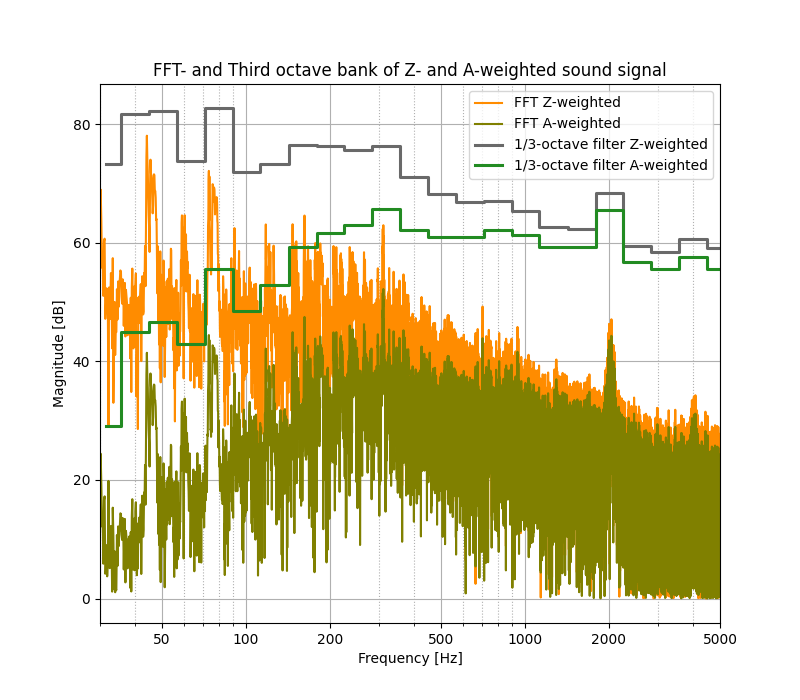
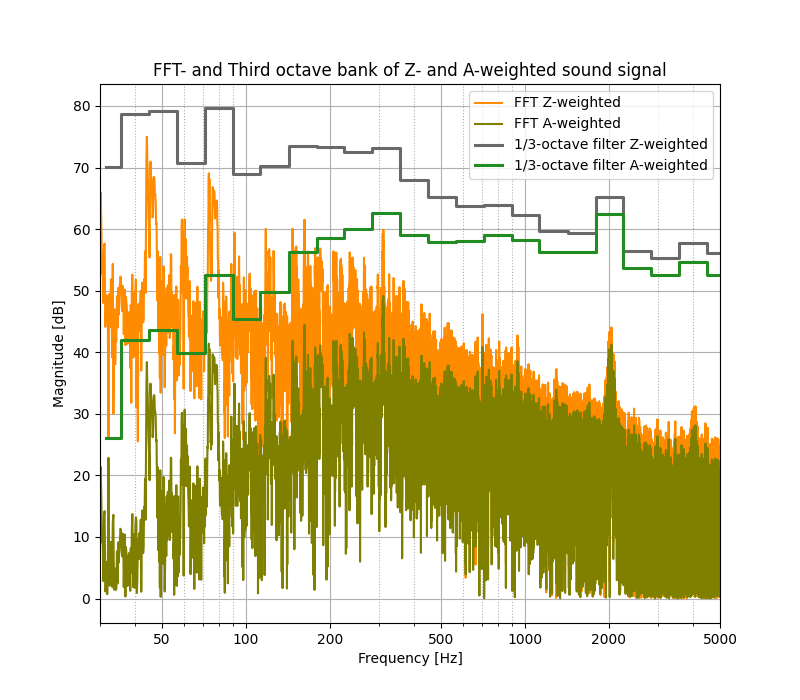
Edited print func

diff --git a/A0.py b/A0.py
@@ -340,15 +340,15 @@ def _print_stuff(fs_sound_file=0, sound_file=0, cal_before=0, cal_after=0, A=0, 
     """
     print("********** -- Important values -- **********\n")
     
-    print("Sampling frequency: {0} Hz -- length of file {1} Seconds \nStart point: {2} s -- End point: {3} s"
+    print("- Sampling frequency: {0} Hz -- length of file {1} Seconds \n- Start point: {2} s -- End point: {3} s"
           .format(fs_cal, len(array)/fs_cal, values.start, values.stop))
     
-    print("Scaling factor A={}".format(round(A,1)))
+    print("- Scaling factor A={}".format(round(A,1)))
     
-    print("Calibration before measurements: {0:.1f} dB\nCalibration after measurements: {1:.1f} dB "
+    print("- Calibration before measurements: {0:.1f} dB\n- Calibration after measurements: {1:.1f} dB "
           .format(cal_before_Lp, cal_after_Lp))
     
-    print("Total Lp from entire sound signal Z-weighted: {0:.1f} dB \nTotal Lp from Third octave bands Z-weighted: {1:.1f}".format(_calculate_Lp(array), Lp_fft))
+    print("- Total Lp from entire sound signal Z-weighted: {0:.1f} dB \n- Total Lp from Third octave bands Z-weighted: {1:.1f}".format(_calculate_Lp(array), Lp_fft))
     
     print("\t\t Z-weighted \t A-weighted\n Lp,fft\t\t{0:.1f} dB\t\t{1:.1f} dB\n Lp,1/3 \t{2:.1f} dB \t{3:.1f} dB".format(Lp_fft, Lp_fft_A, third_oct, third_oct_A))
     

diff --git a/values.py b/values.py
@@ -1,7 +1,7 @@
 p0 = 20*10**(-6)
 cal_value = 94
 start = 40
-stop = 41
+stop = 46
 third_octave_start = 4
 
 x_ticks_third_octave = [50, 100, 200, 500, 1000, 2000, 5000]
